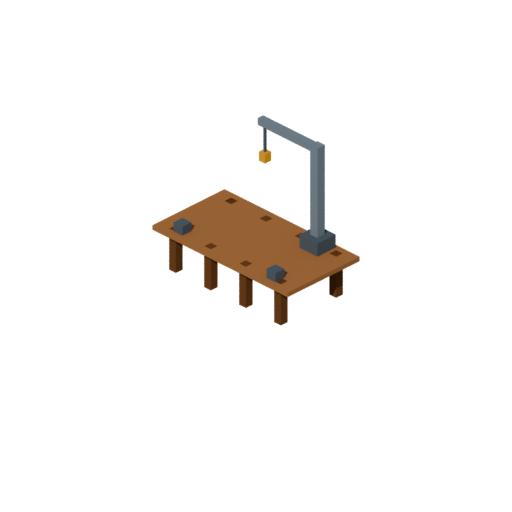
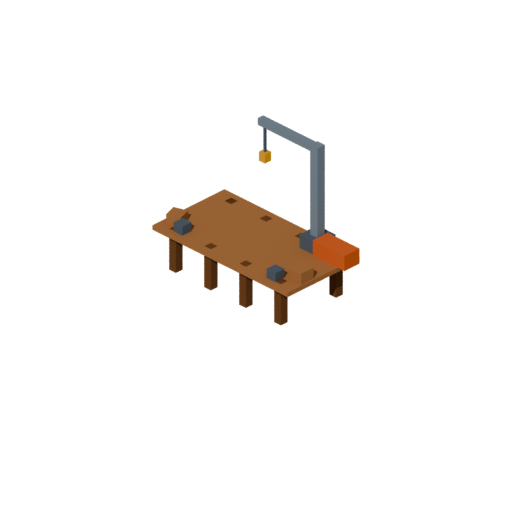
Spend the scenery that was sitting unused
Twelve of the eighteen generated props were referenced by nothing. That was the
gap: the map had been migrated but never furnished.

The palms come off the map SVG and become props, which is the same call the
piers got — what moves cannot be baked into the background. They are low-poly
now instead of flat ellipses in a style nothing else uses, they sit where the
screen actually shows land rather than at its left edge where the old ones
were, and their crowns sway. The crown turns on the mast top, measured at
(256, 178) in the frame: turning it on the frame centre would swing it off the
trunk.

The waiting zone was an ellipse with a label. It has buoys and an anchorage
marker now, so it reads as somewhere boats wait.

A pier with nothing on it looks like scenery. There are crates and a container
on the planking, placed at the two ends because the chip covers the middle —
the first attempt put them dead centre and they were invisible.

The crane is what makes a wooden structure read as a port rather than a fishing
jetty. Base and mast are baked into the built pier; the jib stays a separate
piece because it is the part that turns, on a pivot measured at the mast top,
and each berth sweeps on its own phase so three cranes do not move as one
mechanism. An unbuilt berth has no crane, only the old piles.

gerar_mapa_iso.py grew --sem-coqueiros alongside --sem-pieres.

Still unused, and deliberately: galpao and galpao_velho, which would duplicate
[…]

Changed region(s): [[0.5938, 0.4375, 0.7188, 0.5312], [0.3125, 0.4062, 0.375, 0.4375]]

diff --git a/tools/gerar_props_iso.py b/tools/gerar_props_iso.py
@@ -215,12 +215,25 @@ def montar(M: dict) -> dict:
 
     tabuado = [caixa("tabuado", (0, 0, ALT_PIER - z(2.2)),
                      (PIER_ALCANCE, PIER_LARG, z(4.4)), M["madeira"])]
+
+    # Carga no convés. Um píer limpo parece cenário; com caixotes à espera de
+    # embarque parece que ali se trabalha. Fica na ponta do mar (+mx) e do lado
+    # oposto ao barco, que atraca no +my — o meio do tabuado é da chip.
+    def _no_conves(nome, mx, my, altura_px, tam, mat, rot=(0, 0, 0)):
+        px, py, pz = pos(mx, my, 15.0 + altura_px / 2.0)
+        return caixa(nome, (px, py, pz), (tam[0], tam[1], z(altura_px)), mat, rot)
+
+    tabuado += [
+        _no_conves("cont_conves", 1.95, -0.72, 15.0, (1.05, 0.5), M["laranja"]),
+        _no_conves("cont_topo", 1.95, -0.72, 1.6, (1.02, 0.47), M["azul"]),
+        _no_conves("caixote_a", 2.00, 0.50, 11.0, (0.42, 0.42), M["madeira"]),
+        _no_conves("caixote_b", -1.95, 0.68, 9.5, (0.38, 0.38), M["madeira"],
+                   rot=(0, 0, 18)),
+    ]
     for x in (-PIER_ALCANCE / 2 + 0.7, PIER_ALCANCE / 2 - 0.7):
         tabuado.append(caixa(f"cabeco_{x:.1f}",
                              (x, -PIER_LARG / 2 + 0.3, ALT_PIER + z(4.5)),
                              (0.3, 0.3, z(9.0)), M["metal"]))
-    grupos["pier_construido"] = estacas + tabuado
-
     # -- GUINDASTE em peças: o Tween gira a lança sem mexer no mastro -----
     g_base = [caixa("g_base", (PIER_ALCANCE / 2 - 1.0, PIER_LARG / 2 - 0.4,
                                ALT_PIER + 0.18), (0.6, 0.6, 0.36), M["metal"])]
@@ -232,8 +245,10 @@ def montar(M: dict) -> dict:
                                 ALT_PIER + 2.25), (0.05, 0.05, 0.8), M["metal"]),
                caixa("g_gancho", (PIER_ALCANCE / 2 - 2.75, PIER_LARG / 2 - 0.4,
                                   ALT_PIER + 1.78), (0.2, 0.2, 0.24), M["amarelo"])]
-    grupos["guindaste_base"] = g_base
-    grupos["guindaste_mastro"] = g_mastro
+    # Base e mastro entram no PRÓPRIO píer: um guindaste é o que faz uma
+    # estrutura de madeira ler como porto e não como pontão de pesca. A lança
+    # fica solta porque é ela que gira — e o que se move não pode estar assado.
+    grupos["pier_construido"] = estacas + tabuado + g_base + g_mastro
     grupos["guindaste_lanca"] = g_lanca
     grupos["pier_ampliado"] = estacas + tabuado + g_base + g_mastro + g_lanca
 

diff --git a/tools/gerar_mapa_iso.py b/tools/gerar_mapa_iso.py
@@ -131,7 +131,7 @@ def predio(mx0, my0, mx1, my1, base, altura, telhado, telhado_dir, telhado_esq,
     return s
 
 
-def gerar(com_pieres: bool = True) -> str:
+def gerar(com_pieres: bool = True, com_coqueiros: bool = True) -> str:
     s = '<svg xmlns="http://www.w3.org/2000/svg" width="%d" height="%d" viewBox="0 0 %d %d">\n' % (
         LARG, ALT, LARG, ALT)
 
@@ -190,7 +190,11 @@ def gerar(com_pieres: bool = True) -> str:
         s += caixa(mx, my, mx + 1.2, my + 1.6, B, 13, c[0], c[1], c[2])
         k += 1
 
-    for mx, my in [(-4.0, -2.0), (-3.0, 6.0), (0.0, 14.0), (3.0, 22.0), (7.0, 29.0)]:
+    # Coqueiros chapados: só saem quando --sem-coqueiros. Eles viraram props
+    # low-poly com copa e tronco SEPARADOS, porque o que balança não pode
+    # estar assado no fundo — a mesma razão que tirou os píeres daqui.
+    for mx, my in ([] if not com_coqueiros else
+                   [(-4.0, -2.0), (-3.0, 6.0), (0.0, 14.0), (3.0, 22.0), (7.0, 29.0)]):
         bx, by = p(mx, my, ALT_CAIS)
         s += '  <path d="M%.1f,%.1f l0,-22" stroke="#7a4d2a" stroke-width="4"/>\n' % (bx, by)
         s += '  <g transform="translate(%.1f,%.1f)">\n' % (bx, by - 22)
@@ -206,12 +210,14 @@ def gerar(com_pieres: bool = True) -> str:
 def main() -> int:
     args = [a for a in sys.argv[1:] if not a.startswith("--")]
     com_pieres = "--sem-pieres" not in sys.argv
+    com_coqueiros = "--sem-coqueiros" not in sys.argv
     destino = args[0] if args else "porto_mapa_iso.svg"
-    conteudo = gerar(com_pieres)      # gerar ANTES de abrir: open(...,"w")
+    conteudo = gerar(com_pieres, com_coqueiros)      # gerar ANTES de abrir: open(...,"w")
     with open(destino, "w", encoding="utf-8") as f:   # trunca de imediato, e um
         f.write(conteudo)                             # erro deixaria o mapa vazio
     print("%s — %dx%d, chão transbordando de propósito (o ecrã é a janela)%s" % (
-        destino, LARG, ALT, "" if com_pieres else "  [SEM os píeres]"))
+        destino, LARG, ALT, ("" if com_pieres else "  [SEM os píeres]")
+        + ("" if com_coqueiros else "  [SEM os coqueiros]")))
 
     # O centro de cada píer no chão. É por aqui que o Main.tscn ancora o prop:
     # o render mira a origem do chão, então o canto do TextureRect é este ponto

diff --git a/docs/ESTADO_DO_PROJETO.md b/docs/ESTADO_DO_PROJETO.md
@@ -136,6 +136,16 @@ escura, cartão branco, botão navy) com `tools/folha_icones.gd`. Cada um foi
 colorido para o fundo onde cai — dois não são reaproveitáveis em qualquer
 lugar, e o cabeçalho de `Icones.gd` diz quais e por quê.
 
+O cenário usa os props: **coqueiros low-poly** (que oscilam, copa e tronco em
+peças separadas), **guindaste** nas docas construídas (a lança varre), **carga
+no convés** e **boias + marcador** na Zona de Espera. Os coqueiros chapados
+saíram do SVG do mapa — `gerar_mapa_iso.py --sem-coqueiros` — pela mesma razão
+que os píeres: o que se mexe não pode estar assado no fundo.
+
+Continuam **sem uso** `galpao` e `galpao_velho` (os prédios do mapa já fazem
+esse papel) e as versões avulsas de `caixote`/`conteiner` (foram assadas no
+píer).
+
 Os **3 barcos do GDD** existem (pesqueiro, cargueiro médio e grande), e o
 pesqueiro tem casco próprio — não é o mesmo casco com carga trocada. O
 **trabalhador aparece de pé no tabuado** quando alocado, e mexe-se enquanto a
